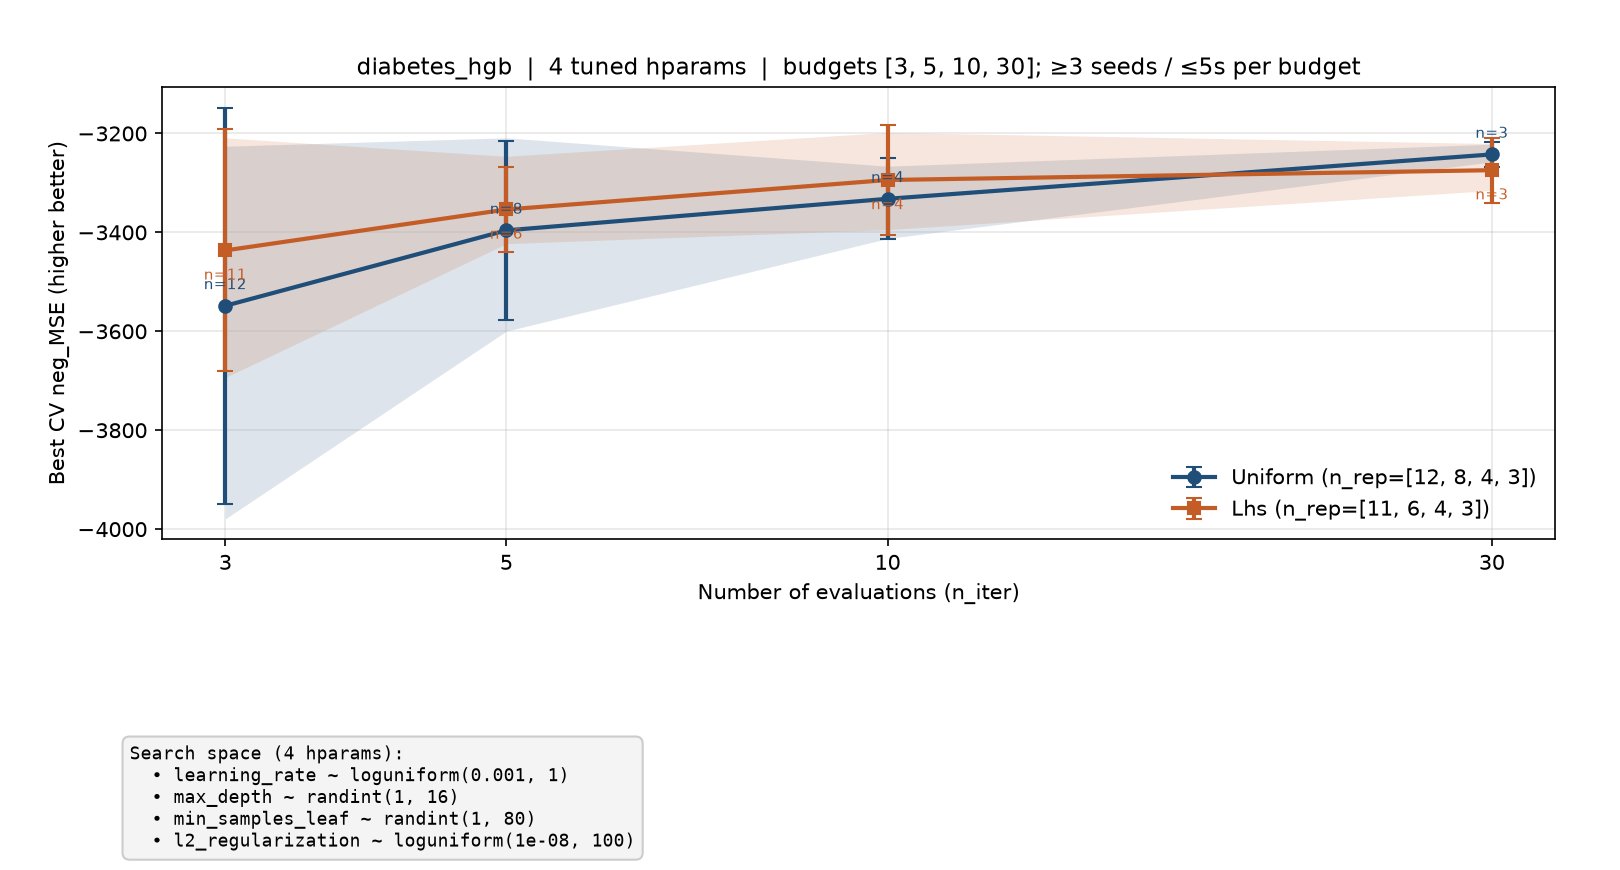
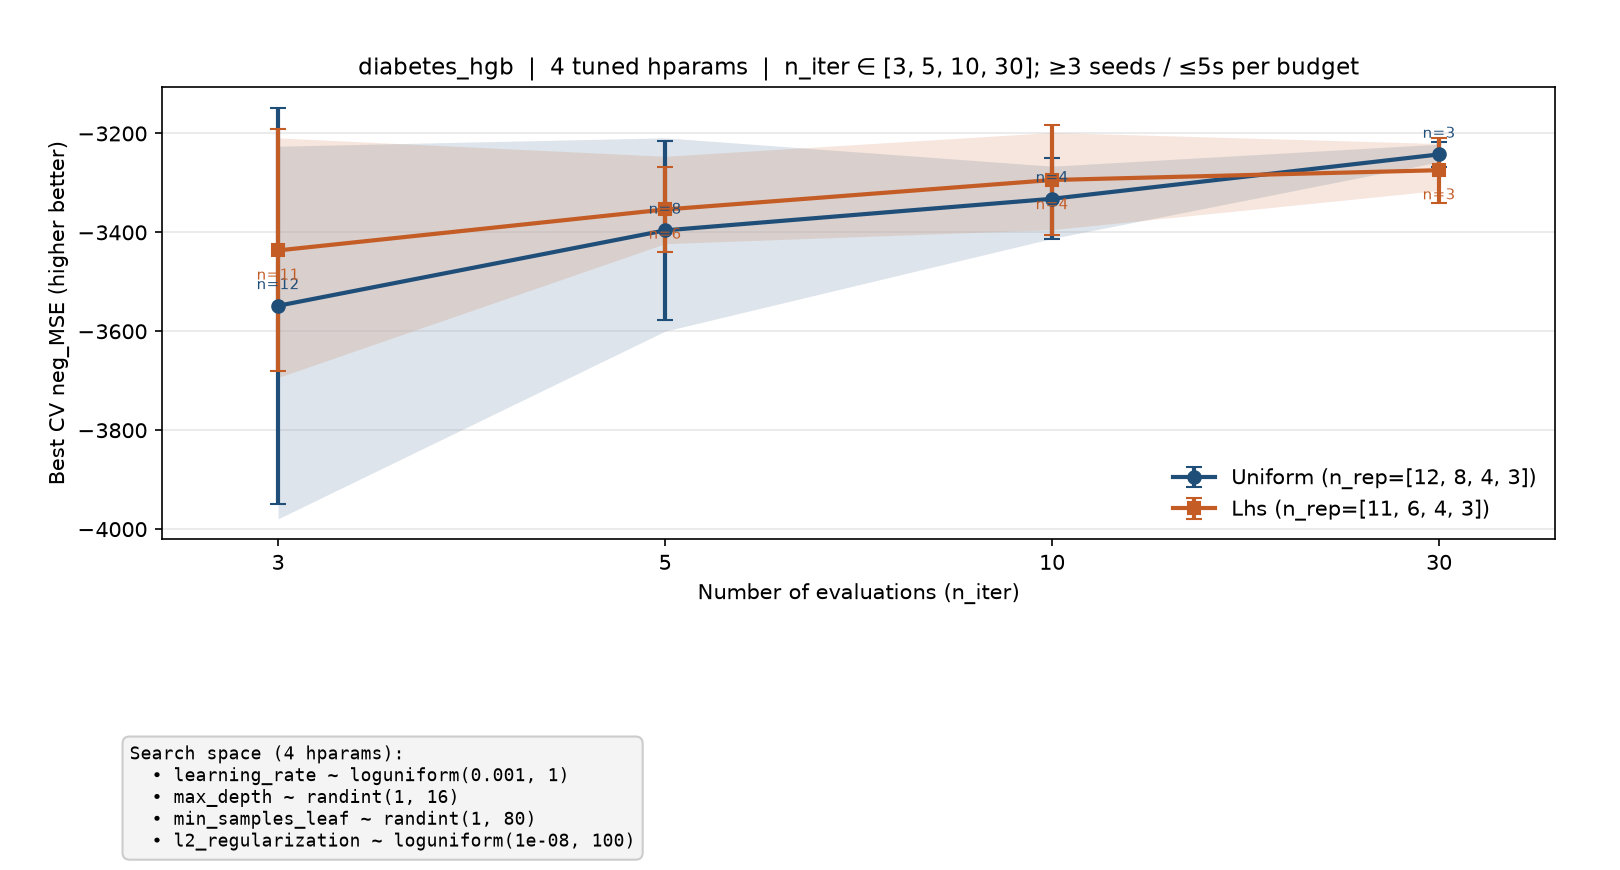
Fix neval plots to show equal-spaced x ticks at 3, 5, 10, 30
Regenerate all budget-sweep figures so every plot explicitly uses
n_iter in [3, 5, 10, 30] on the x-axis (no log compression).

diff --git a/experiments/lhs_vs_uniform/run_neval_budgets.py b/experiments/lhs_vs_uniform/run_neval_budgets.py
@@ -289,16 +289,25 @@ def repeats_for_budget(
 
 
 def plot_problem(cfg, specs, by_method: dict[str, list[dict]], out_stem: str):
+    """Plot mean±std vs n_iter with x ticks fixed to N_ITERS (equally spaced)."""
     n_hp = len(specs)
     fig = plt.figure(figsize=(10.8, 5.8))
     ax = fig.add_axes([0.10, 0.38, 0.86, 0.52])
+
+    # Equal spacing so every budget in N_ITERS is clearly visible (not log-cramped).
+    x_pos = {n: i for i, n in enumerate(N_ITERS)}
 
     for method, color, marker in (
         ("uniform", "#1f4e79", "o"),
         ("lhs", "#c45c26", "s"),
     ):
-        rows = sorted(by_method[method], key=lambda r: r["n_iter"])
-        xs = np.array([r["n_iter"] for r in rows], dtype=float)
+        rows_by_n = {r["n_iter"]: r for r in by_method[method]}
+        # Require the full budget grid
+        missing = [n for n in N_ITERS if n not in rows_by_n]
+        if missing:
+            raise ValueError(f"{cfg['problem_id']}/{method} missing n_iter={missing}")
+        rows = [rows_by_n[n] for n in N_ITERS]
+        xs = np.array([x_pos[n] for n in N_ITERS], dtype=float)
         means = np.array([r["mean"] for r in rows], dtype=float)
         stds = np.array([r["std"] for r in rows], dtype=float)
         ns = [r["n_repeats"] for r in rows]
@@ -316,26 +325,26 @@ def plot_problem(cfg, specs, by_method: dict[str, list[dict]], out_stem: str):
         q90 = np.array([r["q90"] for r in rows], dtype=float)
         ax.fill_between(xs, q10, q90, color=color, alpha=0.15, linewidth=0)
 
-    ax.set_xscale("log")
-    ax.set_xticks(list(N_ITERS))
+    ax.set_xticks(list(range(len(N_ITERS))))
     ax.set_xticklabels([str(n) for n in N_ITERS])
-    ax.minorticks_off()
+    ax.set_xlim(-0.3, len(N_ITERS) - 0.7)
     ax.set_xlabel("Number of evaluations (n_iter)")
     ax.set_ylabel(score_ylabel(cfg["scoring"]))
     ax.set_title(
         f"{cfg['problem_id']}  |  {n_hp} tuned hparams  |  "
-        f"budgets {list(N_ITERS)}; ≥{MIN_REPEATS} seeds / ≤{WALL_BUDGET_S:.0f}s per budget",
+        f"n_iter ∈ {list(N_ITERS)}; ≥{MIN_REPEATS} seeds / ≤{WALL_BUDGET_S:.0f}s per budget",
         fontsize=11,
     )
-    ax.grid(True, alpha=0.3, which="both")
+    ax.grid(True, alpha=0.3, axis="y")
     ax.legend(frameon=False, loc="lower right")
 
     for method, color in (("uniform", "#1f4e79"), ("lhs", "#c45c26")):
-        rows = sorted(by_method[method], key=lambda r: r["n_iter"])
-        for r in rows:
+        rows_by_n = {r["n_iter"]: r for r in by_method[method]}
+        for n in N_ITERS:
+            r = rows_by_n[n]
             ax.annotate(
                 f"n={r['n_repeats']}",
-                (r["n_iter"], r["mean"]),
+                (x_pos[n], r["mean"]),
                 textcoords="offset points",
                 xytext=(0, 8 if method == "uniform" else -14),
                 ha="center",

diff --git a/experiments/lhs_vs_uniform/replot_neval.py b/experiments/lhs_vs_uniform/replot_neval.py
@@ -1,0 +1,69 @@
+#!/usr/bin/env python3
+"""Regenerate all neval plots from saved summary with fixed x ticks [3,5,10,30]."""
+
+from __future__ import annotations
+
+import json
+import sys
+from pathlib import Path
+
+sys.path.insert(0, str(Path(__file__).resolve().parent))
+import _bootstrap  # noqa: F401
+
+sys.path.insert(0, str(Path(__file__).resolve().parent))
+import run_neval_budgets as m
+from samplers import ParamSpec
+
+
+def parse_spec_line(line: str) -> ParamSpec:
+    # e.g. "alpha ~ loguniform(0.0001, 10000)"
+    name, rest = line.split(" ~ ", 1)
+    if rest.startswith("loguniform("):
+        a, b = rest[len("loguniform(") : -1].split(", ")
+        return ParamSpec(name, "loguniform", low=float(a), high=float(b))
+    if rest.startswith("uniform("):
+        a, b = rest[len("uniform(") : -1].split(", ")
+        return ParamSpec(name, "uniform", low=float(a), high=float(b))
+    if rest.startswith("randint("):
+        a, b = rest[len("randint(") : -1].split(", ")
+        return ParamSpec(name, "int", low=float(a), high=float(b))
+    raise ValueError(line)
+
+
+def main():
+    summary = json.loads((m.RESULTS / "neval_budget_summary.json").read_text())
+    assert m.N_ITERS == (3, 5, 10, 30), m.N_ITERS
+    for rec in summary:
+        specs = [parse_spec_line(s) for s in rec["search_space"]]
+        cfg = {"problem_id": rec["problem_id"], "scoring": None}
+        # recover scoring from problem id heuristics
+        if "ridge" in rec["problem_id"] or rec["problem_id"].endswith("_hgb") and "diabetes" in rec["problem_id"]:
+            cfg["scoring"] = (
+                "neg_mean_squared_error"
+                if "diabetes" in rec["problem_id"]
+                else "neg_log_loss"
+            )
+        elif "diabetes_hgb" in rec["problem_id"]:
+            cfg["scoring"] = "neg_mean_squared_error"
+        else:
+            cfg["scoring"] = "neg_log_loss"
+        if rec["problem_id"] == "diabetes_ridge":
+            cfg["scoring"] = "neg_mean_squared_error"
+        if rec["problem_id"] == "diabetes_hgb":
+            cfg["scoring"] = "neg_mean_squared_error"
+
+        by_method = {"uniform": rec["uniform"], "lhs": rec["lhs"]}
+        for method, rows in by_method.items():
+            got = sorted(r["n_iter"] for r in rows)
+            if got != list(m.N_ITERS):
+                raise SystemExit(
+                    f"{rec['problem_id']}/{method} has n_iter={got}, expected {list(m.N_ITERS)}"
+                )
+        stem = Path(rec["figure"]).stem
+        m.plot_problem(cfg, specs, by_method, stem)
+        print("replotted", stem, "x=", list(m.N_ITERS))
+    print("OK")
+
+
+if __name__ == "__main__":
+    main()

diff --git a/experiments/lhs_vs_uniform/reports/NEVAL_BUDGETS.md b/experiments/lhs_vs_uniform/reports/NEVAL_BUDGETS.md
@@ -2,7 +2,7 @@
 
 _Generated 2026-08-19 10:04:30 UTC_
 
-Budgets: `n_iter ∈ [3, 5, 10, 30]`. For each budget/method, as many seed repeats as fit in **5s** wall time (always **≥3**). Points: mean ± std; bands: 10th–90th percentiles. Winning hyperparameter combos are listed per repeat.
+Budgets: `n_iter ∈ [3, 5, 10, 30]`. For each budget/method, as many seed repeats as fit in **5s** wall time (always **≥3**). Points: mean ± std; bands: 10th–90th percentiles. X-axis ticks are exactly n_iter ∈ {3, 5, 10, 30} (equally spaced). Winning hyperparameter combos are listed per repeat.
 
 ## `diabetes_ridge` — 1 tuned hparams
 
